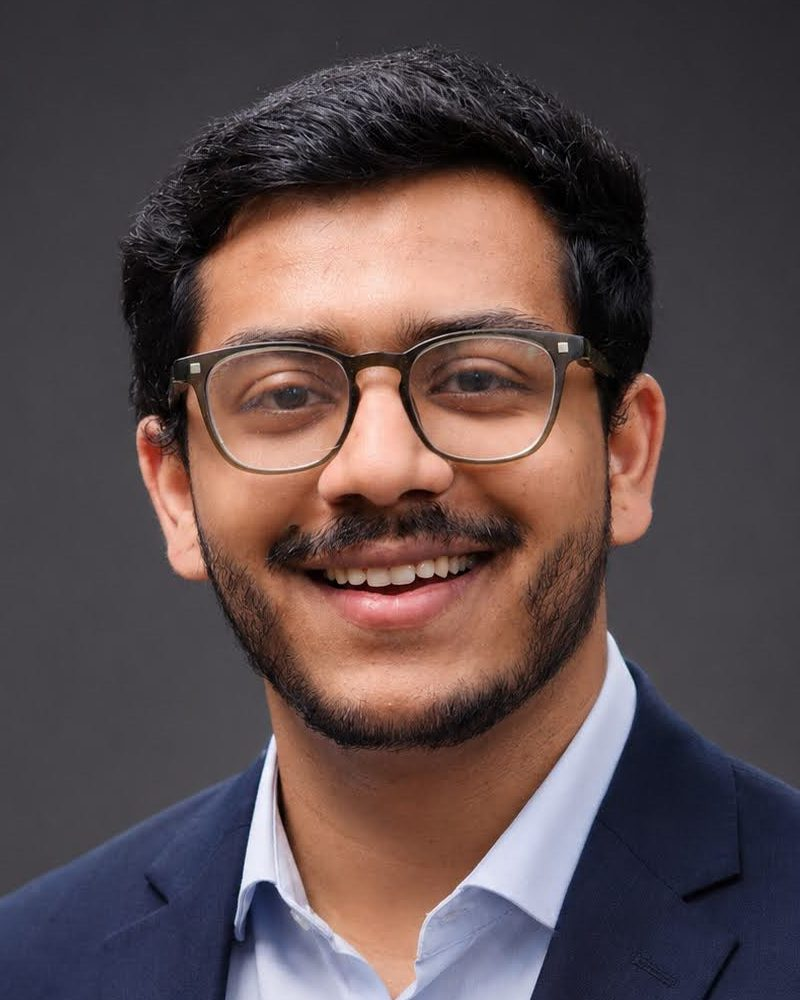
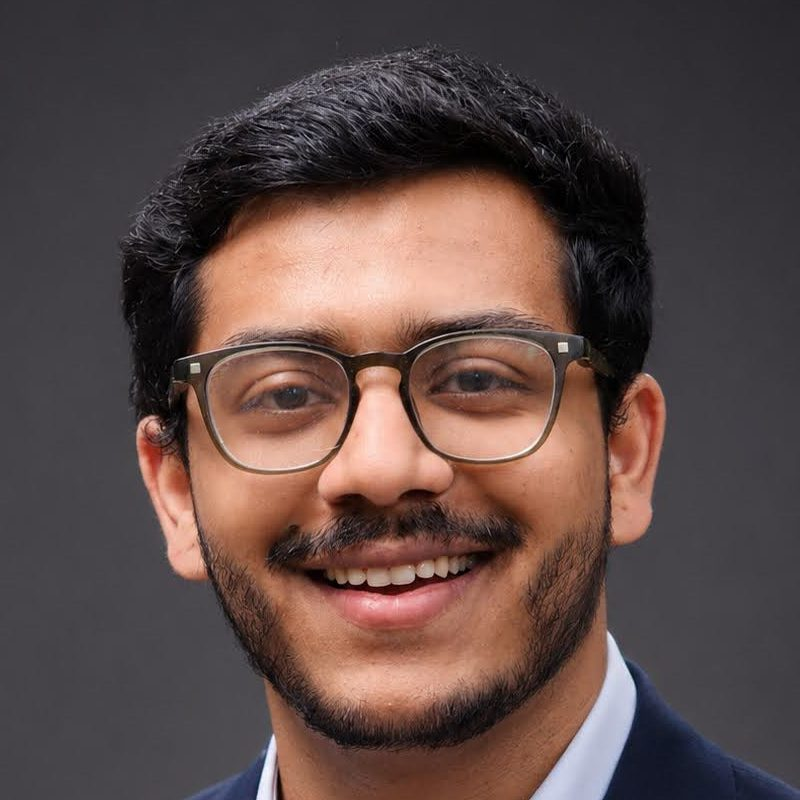
Show the hero portrait as a square.
The tight head-and-shoulders crop stays, with a small corner radius and a soft shadow beside the name.

diff --git a/css/site.css b/css/site.css
@@ -354,12 +354,15 @@ html.is-live .sounding { display: block; }
 
 .hero-inner { position: relative; z-index: 2; }
 
-.hero-grid {
-  display: grid;
-  grid-template-columns: minmax(0, 1fr) minmax(220px, 340px);
-  gap: clamp(1.5rem, 4vw, 4rem);
+.hero-grid { display: block; }
+
+.hero-title-row {
+  display: flex;
   align-items: center;
+  gap: clamp(2rem, 4vw, 4rem);
 }
+
+.hero-title-row h1 { flex: 0 0 auto; }
 
 .hero-tag {
   display: flex;
@@ -417,28 +420,29 @@ html[data-theme="light"] .status-dot {
   text-underline-offset: 0.18em;
 }
 
-.hero-portrait { margin: 0; justify-self: end; width: min(100%, 300px); }
+.hero-portrait {
+  margin: 0;
+  width: clamp(11rem, 16vw, 14.5rem);
+}
 
 .hero-portrait img {
   display: block;
   width: 100%;
   height: auto;
-  aspect-ratio: 4 / 5;
+  aspect-ratio: 1 / 1;
   object-fit: cover;
-  object-position: center 42%;
+  object-position: center center;
   border: 0;
-  -webkit-mask-image: url("portrait-mask.png");
-  mask-image: url("portrait-mask.png");
-  -webkit-mask-size: 100% 100%;
-  mask-size: 100% 100%;
-  -webkit-mask-repeat: no-repeat;
-  mask-repeat: no-repeat;
-  -webkit-mask-position: center;
-  mask-position: center;
+  border-radius: 4px;
+  box-shadow: 0 12px 28px rgba(0, 0, 0, 0.28);
+}
+
+html[data-theme="light"] .hero-portrait img {
+  box-shadow: 0 10px 24px rgba(19, 36, 28, 0.14);
 }
 
 .hero-portrait figcaption {
-  margin-top: 0.65rem;
+  margin-top: 0.55rem;
   color: var(--muted);
   font-size: 0.95rem;
 }
@@ -909,18 +913,18 @@ html[data-theme="light"] .status-dot {
   html.no-js .logo { width: 100%; }
 
   .hero { min-height: auto; padding-top: calc(var(--nav-h) + 1.15rem); }
-  .hero-grid { grid-template-columns: 1fr; gap: 0.35rem; }
+  .hero-grid { display: flex; flex-direction: column; }
   .hero-copy { display: contents; }
+  .hero-title-row { display: contents; }
   .hero-tag { order: 1; margin-bottom: 0.35rem; }
   .hero h1 { order: 2; font-size: clamp(3.5rem, 16vw, 4.8rem); }
   .hero-actions { order: 3; margin-top: 0.85rem; }
   .hero-mail { order: 4; }
   .hero-portrait {
     order: 5;
-    width: 9.5rem;
-    max-width: 70%;
-    margin-top: 1.1rem;
-    justify-self: start;
+    width: 9.25rem;
+    max-width: 72%;
+    margin-top: 1.15rem;
   }
   .hero-portrait img { width: 100%; }
   .hero-portrait figcaption { max-width: 16rem; }

diff --git a/index.html b/index.html
@@ -93,10 +93,19 @@
         <div class="hero-grid">
           <div class="hero-copy">
             <p class="hero-tag"><span class="status-dot" aria-hidden="true"></span> Software Engineer · Seattle, WA · Open to Full-Time Roles</p>
-            <h1 id="hero-title">
-              <span class="line"><span class="line-inner">Yash</span></span>
-              <span class="line"><span class="line-inner">Tapadiya</span></span>
-            </h1>
+            <div class="hero-title-row">
+              <h1 id="hero-title">
+                <span class="line"><span class="line-inner">Yash</span></span>
+                <span class="line"><span class="line-inner">Tapadiya</span></span>
+              </h1>
+              <figure class="hero-portrait">
+                <picture>
+                  <source srcset="data/portrait.webp" type="image/webp">
+                  <img src="data/portrait.jpg" width="800" height="800" alt="Portrait of Yash Tapadiya" fetchpriority="high">
+                </picture>
+                <figcaption>Yash Tapadiya / software engineer</figcaption>
+              </figure>
+            </div>
             <div class="hero-actions">
               <a class="btn btn-primary" data-magnetic href="mailto:yashtap1245@gmail.com" aria-label="Contact Me">Contact Me</a>
               <a class="btn btn-ghost" data-magnetic href="#projects">View My Work</a>
@@ -105,13 +114,6 @@
             <p class="hero-mail"><a href="mailto:yashtap1245@gmail.com">yashtap1245@gmail.com</a></p>
             <p class="hero-desc">Software engineer with experience building Java/Spring Boot microservices and React frontends at Avaya, plus hands-on experience using Claude and Copilot to ship features faster on personal AI projects. MS in Computer Science from Seattle University (3.8 GPA), seeking a full-time engineering role.</p>
           </div>
-          <figure class="hero-portrait">
-            <picture>
-              <source srcset="data/portrait.webp" type="image/webp">
-              <img src="data/portrait.jpg" width="800" height="1000" alt="Portrait of Yash Tapadiya" fetchpriority="high">
-            </picture>
-            <figcaption>Yash Tapadiya / software engineer</figcaption>
-          </figure>
         </div>
         <ul class="stats">
           <li>
